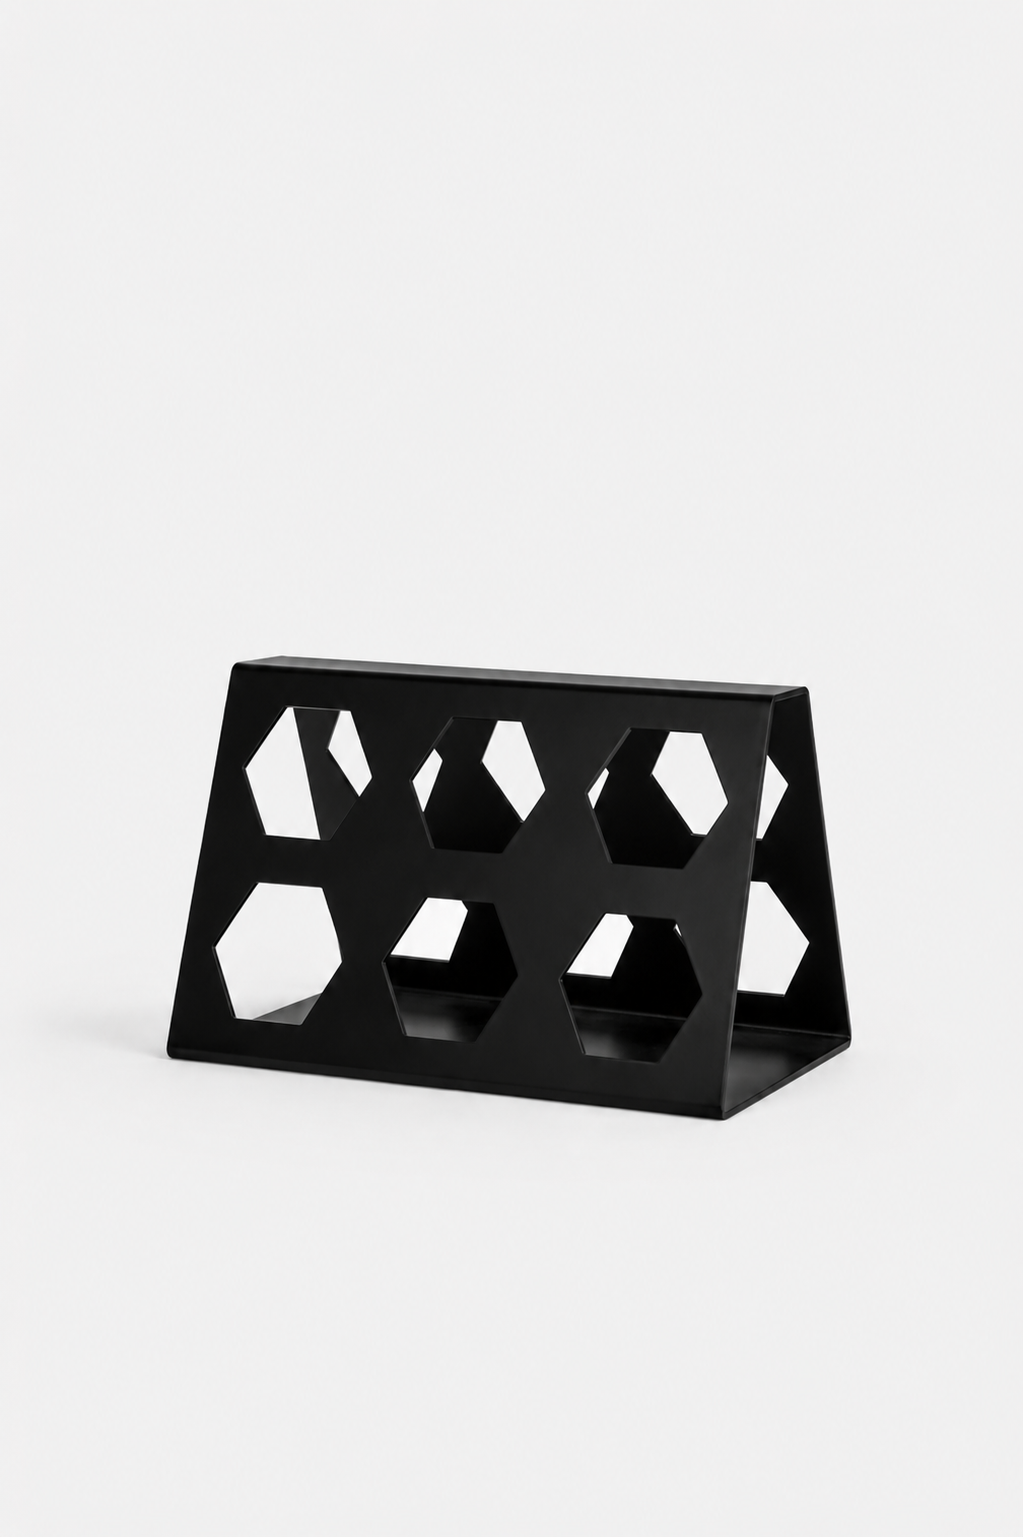
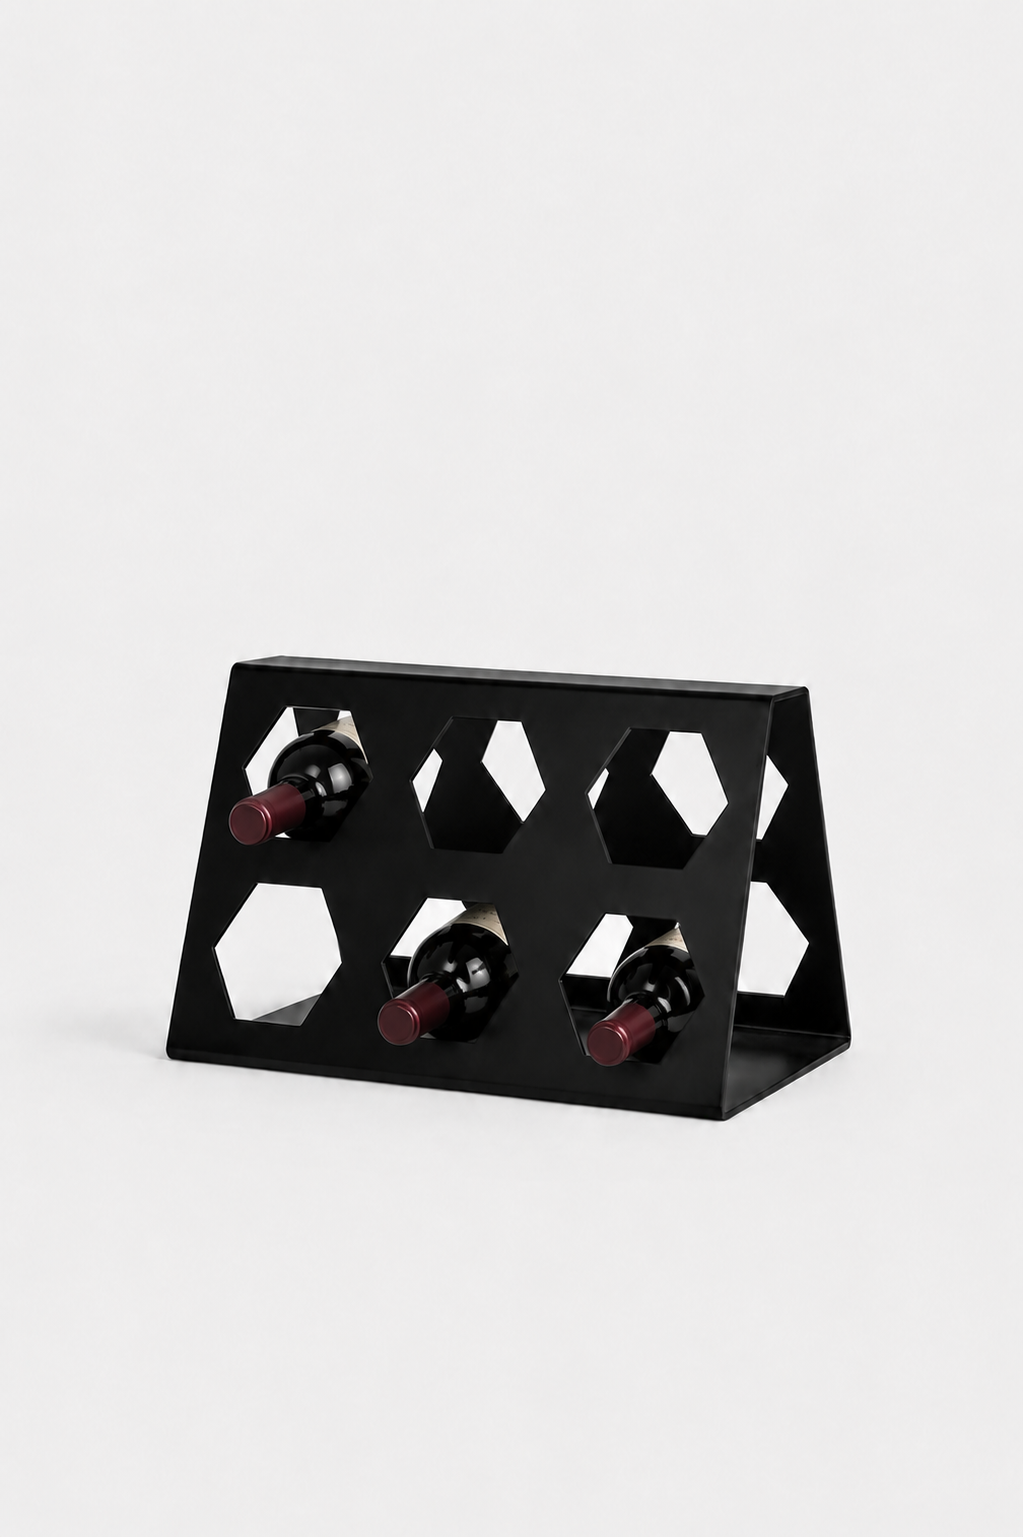
images update

Changed region(s): [[0.2121, 0.4684, 0.3636, 0.5621], [0.3636, 0.5934, 0.5152, 0.6871], [0.5758, 0.5934, 0.697, 0.7183]]

diff --git a/components/sections/technology-section.tsx b/components/sections/technology-section.tsx
@@ -47,10 +47,10 @@ function ScrollRevealText({ text }: { text: string }) {
 const B = "/images/products-home";
 
 const products = [
-  { name: "Wine Stand",     category: "Kitchen & Bar", fit: "contain", images: [`${B}/winestand1.png`, `${B}/winestand2.png`] },
-  { name: "Wine Vase",      category: "Décor",         fit: "contain", images: [`${B}/wine-vase1.png`, `${B}/wine-vase2.png`, `${B}/wine-vase3.png`] },
-  { name: "Triple Vase Set",category: "Décor",         fit: "contain", images: [`${B}/3vase1.png`, `${B}/3vase2.png`, `${B}/3vase3.png`] },
-  { name: "Shoe Rack",      category: "Storage",       fit: "contain", images: [`${B}/shoerack1.png`, `${B}/shoerack2.png`, `${B}/shoerack3.png`] },
+  { name: "Maison",     category: "Wine holder", fit: "contain", images: [`${B}/winestand1.png`, `${B}/winestand2.png`] },
+  { name: "Cala",      category: "Vase",         fit: "contain", images: [`${B}/wine-vase1.png`, `${B}/wine-vase2.png`, `${B}/wine-vase3.png`] },
+  { name: "Aura",category: "Vase",         fit: "contain", images: [`${B}/3vase1.png`, `${B}/3vase2.png`, `${B}/3vase3.png`] },
+  { name: "Align",      category: "Shoe rack",       fit: "contain", images: [`${B}/shoerack1.png`, `${B}/shoerack2.png`, `${B}/shoerack3.png`] },
 ];
 
 function HoverProductCard({ name, category, images, fit }: { name: string; category: string; images: string[]; fit: string }) {
@@ -73,19 +73,27 @@ function HoverProductCard({ name, category, images, fit }: { name: string; categ
   };
 
   return (
-    <div className="group bg-card cursor-pointer" onMouseEnter={handleMouseEnter} onMouseLeave={handleMouseLeave}>
-      <div className="relative aspect-3/4 bg-white overflow-hidden">
-        {images.map((src, i) => (
-          <Image
-            key={src}
-            src={src}
-            alt={`${name} view ${i + 1}`}
-            fill
-            className={`transition-opacity duration-500 ${fit === "cover" ? "object-cover" : "object-contain p-6"} ${
-              i === currentIdx ? "opacity-100" : "opacity-0"
-            }`}
-          />
-        ))}
+    <div className="group bg-card cursor-pointer overflow-hidden" onMouseEnter={handleMouseEnter} onMouseLeave={handleMouseLeave}>
+      <div className="relative aspect-3/4 bg-white overflow-hidden isolate">
+        {fit === "cover" ? (
+          images.map((src, i) => (
+            <Image
+              key={src}
+              src={src}
+              alt={`${name} view ${i + 1}`}
+              fill
+              className={`transition-opacity duration-500 object-cover ${i === currentIdx ? "opacity-100" : "opacity-0"}`}
+            />
+          ))
+        ) : (
+          images.map((src, i) => (
+            <div key={src} className={`absolute inset-3 transition-opacity duration-500 ${i === currentIdx ? "opacity-100" : "opacity-0"}`}>
+              <div className="relative w-full h-full">
+                <Image src={src} alt={`${name} view ${i + 1}`} fill className="object-contain" />
+              </div>
+            </div>
+          ))
+        )}
       </div>
       <div className="px-5 py-5">
         <p className="mb-1 text-xs uppercase tracking-widest text-sandcast font-space-mono">{category}</p>
@@ -126,16 +134,16 @@ export function TechnologySection() {
       {/* 2. Signature products */}
       <div className="bg-background">
         <div className="px-6 py-16 text-center md:px-12 md:py-20 lg:px-20 lg:py-24 lg:pb-16">
-          <h2 className="text-xl tracking-wide text-mulled-iron md:text-2xl lg:text-3xl font-horizon uppercase">
+          <p className="inline-block text-sm md:text-base uppercase tracking-[0.25em] text-smoked-bronze font-space-mono border-b-2 border-smoked-bronze/40 pb-1 mb-6">
+            Signature Products
+          </p>
+          <h2 className="text-2xl tracking-wide text-mulled-iron md:text-3xl lg:text-4xl font-horizon uppercase">
             The Mettali Standard.
             <br />
             Built for Every Room.
           </h2>
-          <p className="mx-auto mt-6 max-w-md text-xs uppercase tracking-widest text-slate-moss font-space-mono">
-            Signature Products
-          </p>
         </div>
-        <div className="grid grid-cols-2 gap-6 px-6 pb-20 md:grid-cols-4 md:px-12 lg:px-20">
+        <div className="grid grid-cols-2 gap-6 px-6 pb-6 md:grid-cols-4 md:px-12 lg:px-20">
           {products.map((product) => (
             <HoverProductCard key={product.name} name={product.name} category={product.category} images={product.images} fit={product.fit} />
           ))}
@@ -143,7 +151,7 @@ export function TechnologySection() {
       </div>
 
       {/* 3. At Mettali description */}
-      <div className="bg-background px-6 py-20 md:px-12 md:py-28 lg:px-20 lg:py-36">
+      <div className="bg-background px-6 py-10 md:px-12 md:py-14 lg:px-20 lg:py-16">
         <div className="mx-auto max-w-4xl">
           <ScrollRevealText text={descriptionText} />
         </div>

diff --git a/components/sections/hero-section.tsx b/components/sections/hero-section.tsx
@@ -5,25 +5,25 @@ import { useEffect, useRef, useState } from "react";
 
 const sideImages = [
   {
-    src: "/images/heroa.png",
+    src: "/images/hero1.png",
     alt: "Mettali aluminium furniture in a modern space",
     position: "left",
     span: 1,
   },
   {
-    src: "/images/herob.png",
+    src: "/images/hero2.png",
     alt: "Mettali product showcase",
     position: "left",
     span: 1,
   },
   {
-    src: "/images/heroc.png",
+    src: "/images/hero3.png",
     alt: "Mettali aluminium home decor",
     position: "right",
     span: 1,
   },
   {
-    src: "/images/herod.png",
+    src: "/images/hero4.png",
     alt: "Mettali aluminium collection",
     position: "right",
     span: 1,
@@ -131,11 +131,11 @@ export function HeroSection() {
               }}
             >
               <Image
-                src="/images/Heromain5.png"
+                src="/images/Heromain8.png"
                 alt="Mettali aluminium furniture in a sleek modern living space"
                 fill
                 className="object-cover"
-                style={{ objectPosition: `${50 + imageProgress * 15}% 60%` }}
+                style={{ objectPosition: `${50 + imageProgress * 15}% ` }}
                 priority
               />
             </div>
@@ -242,16 +242,16 @@ export function HeroSection() {
       </div>
 
       {/* Scroll space to enable animation */}
-      <div className="h-screen" />
+      <div className="h-[60vh]" />
 
       {/* Tagline — slides up when it enters the viewport */}
       <div
         ref={taglineRef}
-        className={`px-6 pb-8 pt-2 text-center transition-all duration-700 ease-out ${
-          taglineVisible ? "opacity-100 translate-y-0" : "opacity-0 translate-y-10"
+        className={`px-6 pb-4 pt-6 text-center transition-all duration-700 ease-out ${
+          taglineVisible ? "opacity-100 translate-y-0" : "opacity-0 translate-y-60"
         }`}
       >
-        <p className="mx-auto max-w-2xl text-xl leading-tight text-slate-moss md:text-2xl lg:text-3xl font-horizon uppercase tracking-wide">
+        <p className="mx-auto max-w-5xl text-5xl leading-tight text-slate-moss md:text-6xl lg:text-5xl font-horizon uppercase tracking-wide opacity-80">
           Metal that belongs
           <br />
           in every home.

diff --git a/components/sections/quick-buy-section.tsx b/components/sections/quick-buy-section.tsx
@@ -21,7 +21,7 @@ type Panel = {
 
 const panels: Panel[] = [
   {
-    image: "/images/quickbuy1.png",
+    image: "/images/Heromain3.png",
     alt: "Mettali products in a styled scene",
     dots: [
       {
@@ -45,12 +45,28 @@ const panels: Panel[] = [
     alt: "Mettali wine vase",
     dots: [
       {
-        name: "Wine Vase",
+        name: "Aura Vase",
         price: "From ₹2,499",
         href: "/vases",
         dot: { left: "48%", top: "52%" },
         popup: { left: "5%", top: "20%" },
       },
+
+      {
+        name: "Aura Vase",
+        price: "From ₹2,499",
+        href: "/vases",
+        dot: { left: "70%", top: "62%" },
+        popup: { left: "38%", top: "22%" },
+      },
+
+      {
+        name: "Aura Vase",
+        price: "From ₹2,499",
+        href: "/vases",
+        dot: { left: "40%", top: "82%" },
+        popup: { left: "38%", top: "22%" },
+      }
     ],
   },
   {

diff --git a/components/sections/philosophy-section.tsx b/components/sections/philosophy-section.tsx
@@ -3,7 +3,7 @@ export function PhilosophySection() {
     <section id="products" className="bg-background">
       <div className="px-6 py-6 md:px-12 md:py-10 lg:px-20 lg:py-12 lg:pb-32">
         <div className="text-center">
-          <p className="text-xs uppercase tracking-widest text-sandcast">
+          <p className="inline-block text-sm md:text-base uppercase tracking-[0.25em] text-smoked-bronze font-space-mono border-b-2 border-smoked-bronze/40 pb-1">
             Signature Collection
           </p>
           <p className="mt-6 leading-relaxed text-slate-moss text-lg md:text-xl text-center max-w-3xl mx-auto">

diff --git a/components/sections/editorial-section.tsx b/components/sections/editorial-section.tsx
@@ -3,10 +3,10 @@
 import Image from "next/image";
 
 const specs = [
-  { label: "Materials", value: "Aluminium Alloy" },
-  { label: "Warranty", value: "10 Years" },
-  { label: "Delivery", value: "6-10 Weeks" },
-  { label: "Returns", value: "30 Days" },
+  { label: "Material", value: "Aluminium" },
+  { label: "Craftsmanship", value: "Precision engineered" },
+  { label: "Delivery", value: "10-14 days" },
+  { label: "Quality", value: "Inspected before shipping" },
 ];
 
 export function EditorialSection() {

diff --git a/components/sections/featured-products-section.tsx b/components/sections/featured-products-section.tsx
@@ -7,8 +7,8 @@ const B = "/images/products-home";
 
 const products = [
   {
-    name: "Wine Stand",
-    category: "Kitchen & Bar",
+    name: "Maison",
+    category: "Wine holder",
     images: [`${B}/winestand1.png`, `${B}/winestand2.png`],
   },
   {
